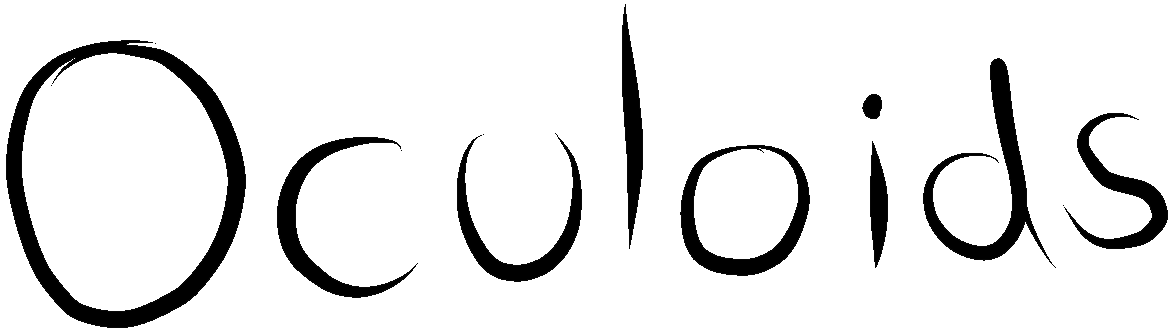
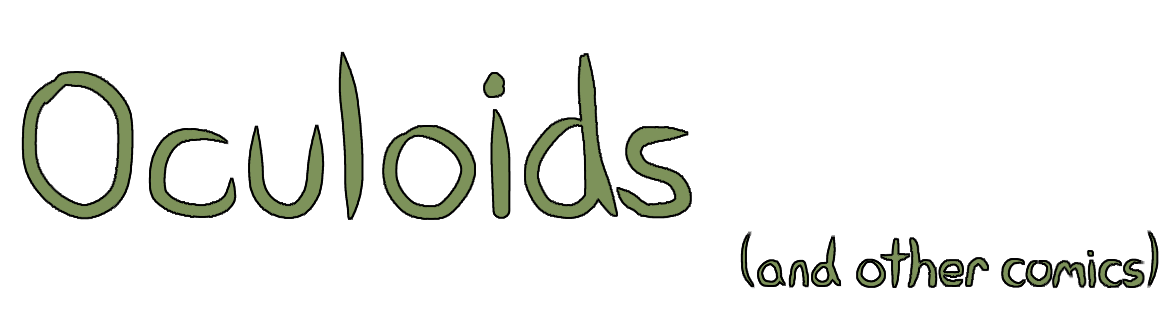
updated graphics

diff --git a/js/app.js b/js/app.js
@@ -1,6 +1,37 @@
+//capture .prev and .next elements
+//assign their attributes to pageID-- + ".html" and pageID++ + ".html" respectively.
+//Figure out why the button press bits
+var setPrev = function(link) {
+  if (firstPage){
+    $(link).click($(link).attr("href", "1.html"));
+  } else {
+      var tempID = pageID;
+      tempID--;
+      tempID += ".html";
+      $(link).click($(link).attr("href", tempID));
+    }
+}
+
+var setNext = function(link){
+  if (lastPage){
+    $(link).click($(link).attr("href", "index.html"));
+  } else {
+      var tempID = pageID;
+      tempID++;
+      tempID += ".html";
+      $(link).click($(link).attr("href", tempID));
+    }
+}
+
+setPrev("#prevComic");
+setPrev("#prevComic2");
+setNext("#nextComic");
+setNext("#nextComic2");
+
+
+
 //get url
 var fullUrl = window.location.href;
-console.log(fullUrl);
 var htmlIndex; //holds index location of whatever.html beginning
 var shortUrl; //holds shortened url
 
@@ -9,17 +40,15 @@ htmlIndex = fullUrl.indexOf(pageID + ".html");
   if (htmlIndex == -1) {
     htmlIndex = fullUrl.indexOf("index.html");
   }
-  console.log(htmlIndex);
 
 //splices url to get final string
 shortUrl = fullUrl.slice(0,htmlIndex);
-console.log(shortUrl);
 
 document.onkeydown = function(e) {
     switch (e.keyCode) {
         case 37: //left
             //Check boolean firstPage to see if it's true
-            if (firstPage === true){
+            if (firstPage){
             //If yes, alert "You're already at the first comic!"
               alert("You're already at the first comic!");
             } else {
@@ -31,7 +60,7 @@ document.onkeydown = function(e) {
             break;
         case 39: //right
           //Check boolean lastPage to see if it's true
-          if (lastPage === true){
+          if (lastPage){
           //If yes, alert "You're already at the last comic!"
             alert("You're already at the last comic!");
           } else {
@@ -42,3 +71,15 @@ document.onkeydown = function(e) {
             break;
     }
 };
+
+// $(".prev").click(event){
+//   event.preventDefault();
+//   if (firstPage){
+//     alert("You're already at the first comic!");
+//   } else {
+//     pageID--;
+//     pageID += ".html";
+//     $(".prev").attr('href',pageID);
+//     $(".prev").trigger('click');
+//   }
+// }

diff --git a/index.html b/index.html
@@ -31,9 +31,9 @@
       <div class="comicwrapper">
         <div class="comicnav" id="topcomicnav">
           <a class="first" href="1.html" alt="first"></a>
-          <a class="prev" id ="prevComic" href="3.html" alt="prev"></a>
+          <a class="prev" id ="prevComic" href="" alt="prev"></a>
           <a class="archive" href="archive.html" alt="archive"></a>
-          <a class="next" id ="nextComic" href="4.html" alt="archive"></a>
+          <a class="next" id ="nextComic" href="" alt="next"></a>
           <a class="last" href="4.html" alt="last"></a>
         </div>
 
@@ -43,9 +43,9 @@
 
         <div class="comicnav" id="bottomcomicnav">
           <a class="first" href="1.html" alt="first"></a>
-          <a class="prev" href="3.html" alt="prev"></a>
+          <a class="prev" id ="prevComic2" href="" alt="prev"></a>
           <a class="archive" href="archive.html" alt="archive"></a>
-          <a class="next" href="4.html" alt="archive"></a>
+          <a class="next" id ="nextComic2" href="" alt="next"></a>
           <a class="last" href="4.html" alt="last"></a>
         </div>
       </div>

diff --git a/style.css b/style.css
@@ -108,12 +108,14 @@ a {
   padding: 0;
 }
 
-.comicnav a {
+.comicnav a,
+.comicnav span {
   width: 39.5px;
   height: 39.5px;
   background-size: 90%;
   margin: 0 3%;
   padding: 7px;
+  display: inline-block;
 }
 
 .first {
@@ -263,7 +265,8 @@ a {
     float: right;
     text-align: left;
   }
-  .comicnav a {
+  .comicnav a,
+  .comicnav span {
     width: 69px;
     height: 69px;
     margin: 0 2%;
@@ -294,7 +297,8 @@ a {
     margin: -27px 0 0 0;
     padding: 0 20px;
   }
-  .comicnav a {
+  .comicnav a,
+  .comicnav span {
     width: 79px;
     height: 79px;
     margin: 0 2%;

diff --git a/js/lightbox.js b/js/lightbox.js
@@ -50,7 +50,7 @@ jQuery(document).ready(function($) {
 	});
 
 	//Click anywhere on the page to get rid of lightbox window
-	$('#lightbox').live('click', function() { //must use live, as the lightbox element is inserted into the DOM
+	$('#lightbox').on('click', function() { //must use live, as the lightbox element is inserted into the DOM
 		$('#lightbox').hide();
 	});
 

diff --git a/2.html b/2.html
@@ -87,6 +87,8 @@
     var firstPage = false;
     var lastPage = false;
   </script>
+  <script type="text/javascript" src="http://code.jquery.com/jquery-1.11.3.min.js"></script>
   <script type="text/javascript" src="js/app.js"></script>
+  <script type="text/javascript" src="js/lightbox.js"></script>
 </body>
 </html>

diff --git a/3.html b/3.html
@@ -86,6 +86,8 @@
     var firstPage = false;
     var lastPage = false;
   </script>
+  <script type="text/javascript" src="http://code.jquery.com/jquery-1.11.3.min.js"></script>
   <script type="text/javascript" src="js/app.js"></script>
+  <script type="text/javascript" src="js/lightbox.js"></script>
 </body>
 </html>

diff --git a/1.html b/1.html
@@ -86,6 +86,8 @@
     var firstPage = true;
     var lastPage = false;
   </script>
+  <script type="text/javascript" src="http://code.jquery.com/jquery-1.11.3.min.js"></script>
   <script type="text/javascript" src="js/app.js"></script>
+  <script type="text/javascript" src="js/lightbox.js"></script>
 </body>
 </html>

diff --git a/4.html b/4.html
@@ -86,6 +86,8 @@
     var firstPage = false;
     var lastPage = true;
   </script>
+  <script type="text/javascript" src="http://code.jquery.com/jquery-1.11.3.min.js"></script>
   <script type="text/javascript" src="js/app.js"></script>
+  <script type="text/javascript" src="js/lightbox.js"></script>
 </body>
 </html>
